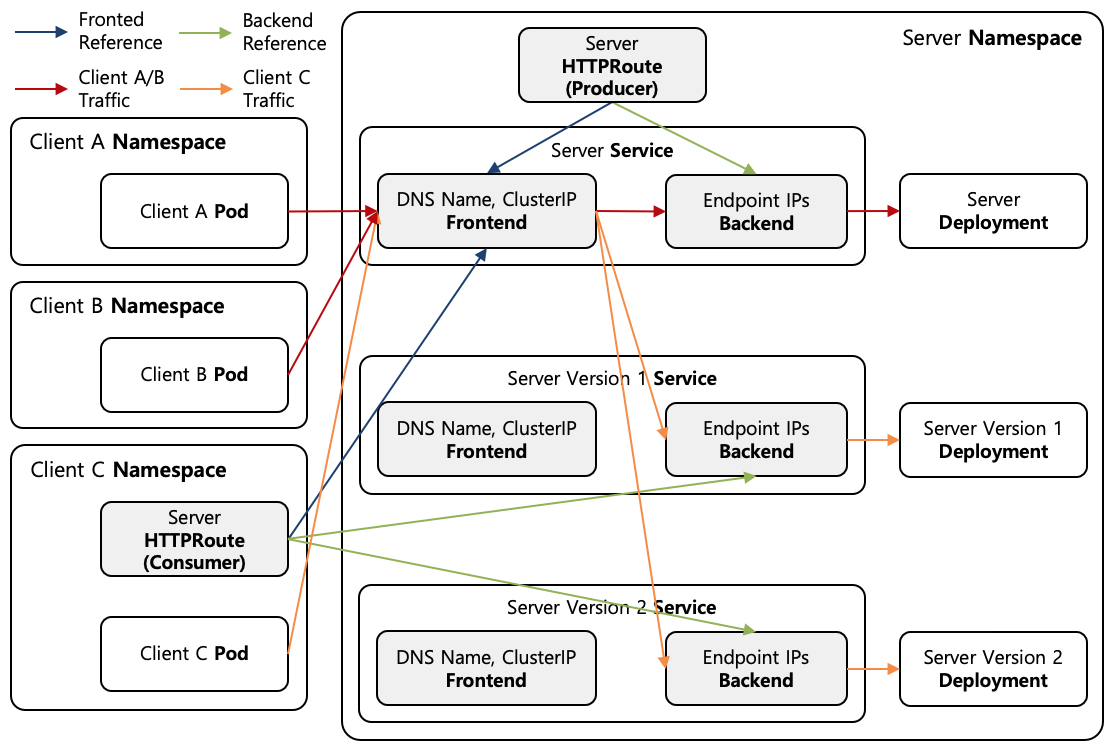
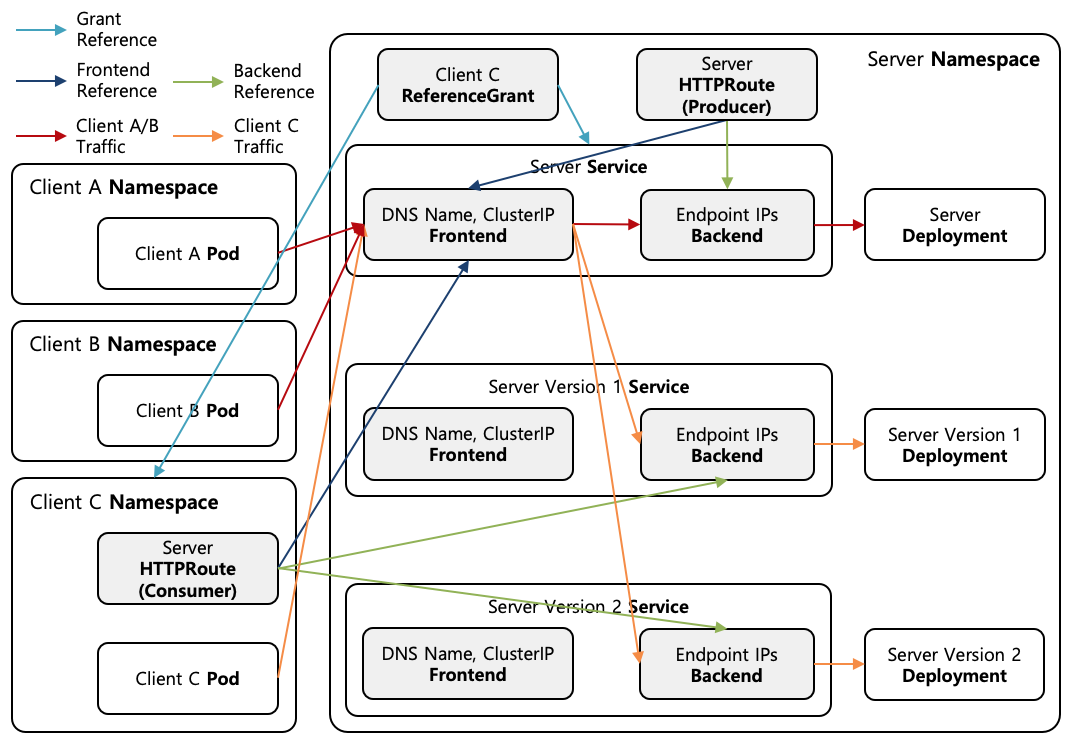
update

diff --git a/content/docs/theory-analysis/kubernetes-gateway-api-gamma/index.en.md b/content/docs/theory-analysis/kubernetes-gateway-api-gamma/index.en.md
@@ -103,6 +103,7 @@ spec:
   to:
   - group: ""
     kind: Service
+    name: server
 ```
 
 A **Consumer Route** is a Route created in a different Namespace from the target Service, and is used when a Client using the Service defines rules that apply only to its own requests. [File 3] shows the Consumer HTTPRoute located in the Client C Namespace of [Figure 1] and the ReferenceGrant located in the Server Namespace; it distributes the requests sent to the `server` Service by Clients in the `client-c-namespace` Namespace across the Backends of the `server-v1` and `server-v2` Services at a 90:10 ratio. The Server Version 1 and 2 Services in [Figure 1] correspond to the `server-v1` and `server-v2` Services, respectively.

diff --git a/content/docs/theory-analysis/kubernetes-gateway-api-gamma/index.md b/content/docs/theory-analysis/kubernetes-gateway-api-gamma/index.md
@@ -103,6 +103,7 @@ spec:
   to:
   - group: ""
     kind: Service
+    name: server
 ```
 
 **Consumer Route**는 대상 Service와 다른 Namespace에 생성되는 Route이며, Service를 이용하는 Client가 자신의 요청에만 적용될 규칙을 정의할 때 이용한다. [File 3]은 [Figure 1]의 Client C Namespace에 위치한 Consumer HTTPRoute와 Server Namespace에 위치한 ReferenceGrant를 나타내고 있으며, `client-c-namespace` Namespace의 Client가 `server` Service로 전송하는 요청을 `server-v1`, `server-v2` Service의 Backend로 90:10 비율로 분배한다. [Figure 1]의 Server Version 1, 2 Service가 각각 `server-v1`, `server-v2` Service에 해당한다.
